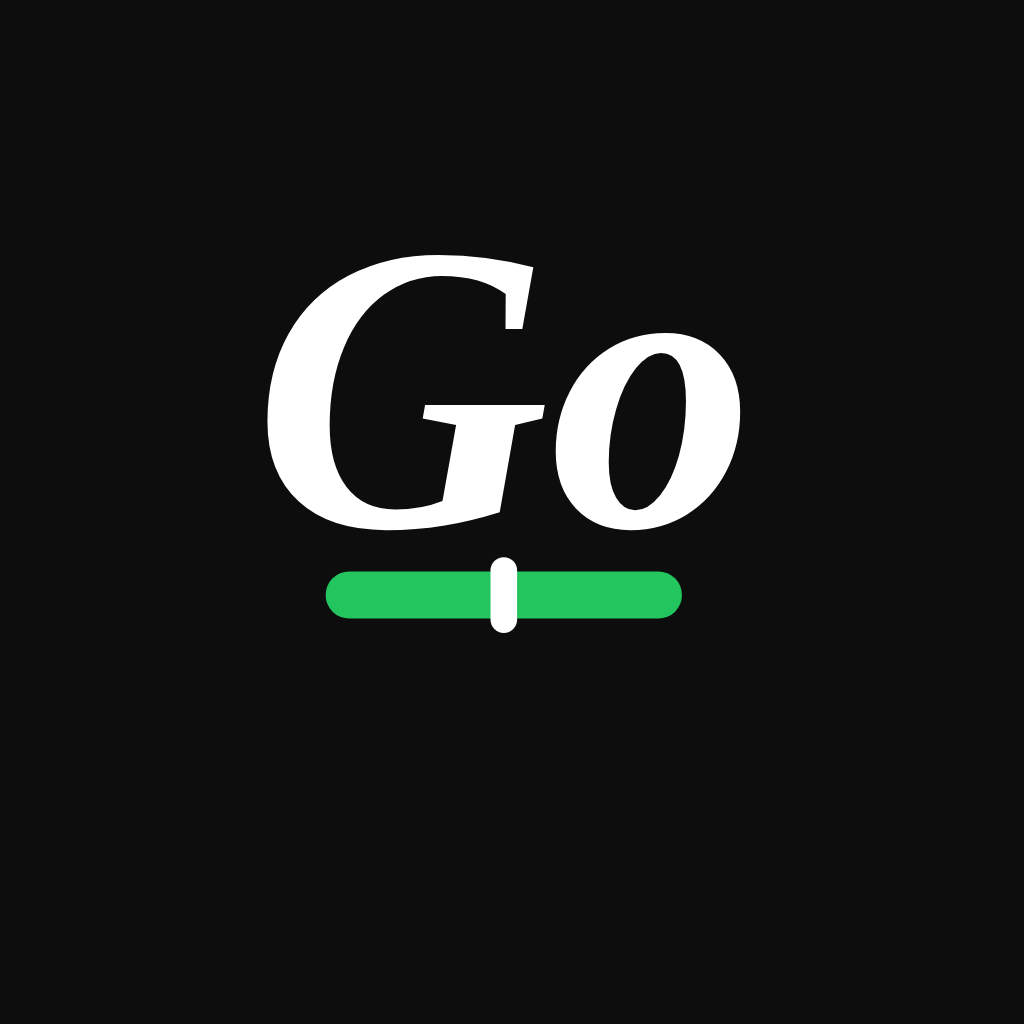
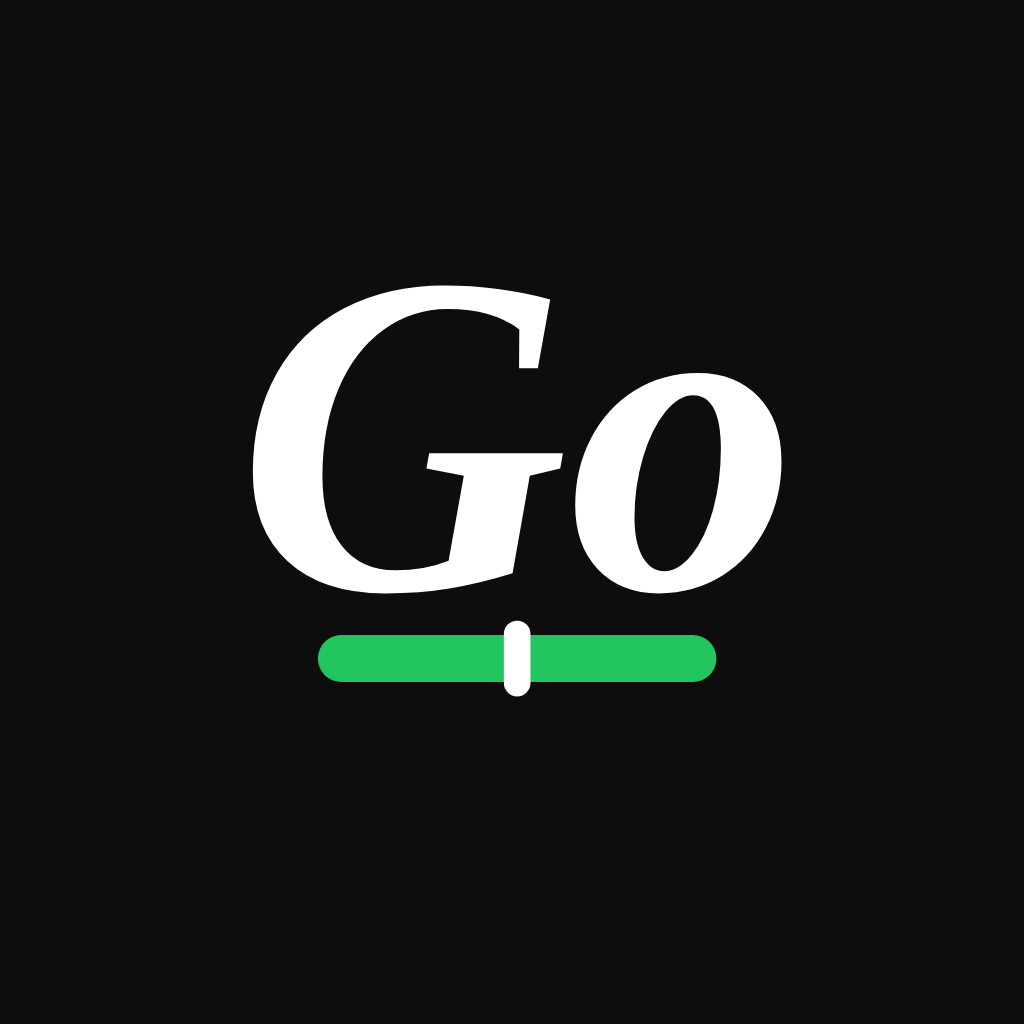
brand: 아이콘 여백·크기·배치 최종 정리 — 2패스 광학 정렬, 마크 폭 52 %
실측 결과 마크가 위로 떠 있었고(상 24.9 / 하 38.2 %) 가로도 8 px 밀려 있었다. 손으로 준 보정값(shiftX/shiftY)을 없애고
생성기에 2패스 자동 정렬을 넣었다: 1패스로 마크만 투명 렌더 → 알파 bbox + 잉크 무게중심 실측 → 그 중간(광학 중심)을
타일 중심에 맞추고 세로만 1.2 % 위로. 콘셉트·크기를 바꿔도 정렬이 따라온다.
마크 폭은 3안(46/52/56 %) 비교 후 52 % — 46 %는 소심하고 56 %는 원형 마스크 여백을 먹는다.
최종 여백 좌 24.6 / 우 23.6 / 상 27.8 / 하 31.9 %. adaptive 0.473 S(안전 0.611), maskable 0.53 S(안전 0.8) 확인.

Changed region(s): [[0.25, 0.25, 0.7812, 0.6875]]

diff --git a/docs/UX-AUDIT.md b/docs/UX-AUDIT.md
@@ -282,8 +282,12 @@ C1 글꼴 배율은 rem 전환 대신 `min(px, vw)` 방어로 갈음(WebView 는
 - 브랜드 디자이너 실측: 6안 공통 **정렬 버그** — 띠가 글자 광학축보다 8 px(1.6 %) 왼쪽. 그리고 밑줄 판독을 깨는 것은 바늘이 아니라 세 비례다: 띠 폭(글자의 108 % → 2/3), 간격(1.0 % → 3.5 %), 띠 두께(6.25 % → 'o' 굵은 획과 같은 4.2 %). "바늘은 밑줄을 부수는 도구가 아니라, 이미 독립한 물체에 의미를 주는 마지막 한 획."
 - 두 스펙이 갈린 값(띠 폭 44 % vs 31 %, 바늘 2.6 % vs 3.6 %)은 **직접 렌더해 36 px 다운샘플 휘도로 측정**해 정했다: 바늘 2.6 % → 대비 +84, 2.0 % → +68(미달). 띠 폭은 글자 잉크의 75 %.
 
-**최종 스펙** (캔버스 한 변 S 대비, `scripts/gen-icons.mjs`, 잉크 바운딩박스 실측 조립):
-`배경 #0d0d0e` · `'Go' 잉크 폭 0.465S, 상단 0.250S` · `띠 = 잉크 폭 × 0.75, 두께 0.046S, 완전 라운드` · `간격 0.038S` · `흰 바늘 폭 0.026S, 띠 위·아래로 0.014S 돌출` · `광학 보정 좌 0.008S · 상 0.005S`.
-adaptive 전경은 콘텐츠 비율 0.52(중앙 안전영역 안), maskable 0.58. **테마 아이콘(단색)은 바늘을 흰색이 아니라 구멍(alpha 0)으로** — 단색 틴트에서 흰 바늘은 사라지기 때문. 차점안 C2 는 같은 생성기의 `--concept o` 로 언제든 재현 가능.
+**최종 스펙** (캔버스 한 변 S 대비, `scripts/gen-icons.mjs`):
+- 색 — 배경 `#0d0d0e` · 글자 `#ffffff` (Cormorant Garamond 600 italic) · 띠 `#22c55e` · 바늘 = 글자와 같은 흰색(바늘은 띠의 부품이 아니라 활자 쪽 식구)
+- 크기 — `'Go' 잉크 폭 0.52 S` (46 %는 소심하고 56 %는 원형 마스크 여백을 먹는다: 3안 비교) · `띠 폭 = 잉크 폭 × 0.75` · `띠 두께 0.046 S` · `간격 0.038 S` · `바늘 폭 0.026 S, 띠 위·아래로 0.014 S 돌출`
+- 배치 — **2패스 자동 광학 정렬**: 1패스로 마크만 투명 렌더해 알파 bbox 와 잉크 무게중심을 실측하고, 그 중간값(광학 중심)을 타일 중심에 맞춘다. 세로는 한 변의 1.2 % 위로(정사각 타일에서 기하 중심에 두면 가라앉아 보인다). 손으로 준 보정값은 전부 제거 — 콘셉트·크기를 바꿔도 정렬이 따라온다
+- 실측 여백 — 좌 24.6 / 우 23.6 / 상 27.8 / 하 31.9 % (좌우 1 % 차이와 위쪽 여유는 이탤릭 'G' 와 아래쪽 띠의 시각 무게를 상쇄한 결과)
+- 플랫폼 — adaptive 전경 콘텐츠 반경 0.473 S(안전 0.611) · maskable 콘텐츠 0.53 S(안전 0.8) · **테마 아이콘(단색)은 바늘을 흰색이 아니라 구멍(alpha 0)으로** (단색 틴트에서 흰 바늘은 사라진다)
+- 차점안 C2 는 같은 생성기의 `--concept o`, 1차 후보 '라' 는 `--concept ra` 로 언제든 재현
 
 남긴 후속: 하이브리드 H2(휘어 울리는 현)는 큰 크기에서 값을 하므로 **스플래시·앱 내 헤더·굿즈용 세컨더리 마크** 후보로 보관. 알림 아이콘(24 px 모노)은 워드마크가 아니라 바늘만 남긴 별도 심볼이 필요 — 실기기 단계에서 재검토.
